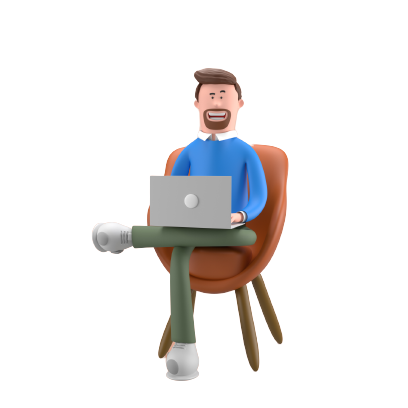
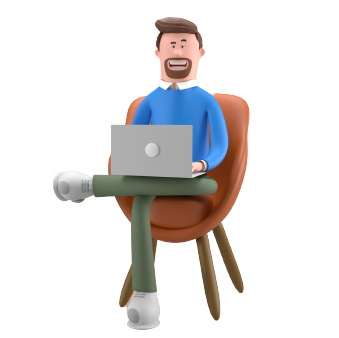
Changes told by Sagar Amg

Changed region(s): [[0.1475, 0.0296, 0.7375, 0.9763]]

diff --git a/client/src/components/skills.jsx b/client/src/components/skills.jsx
@@ -11,29 +11,47 @@ const skills = () => {
 
     <div className='flex flex-col pt-20 bg-slate-800' >
           <div className='flex text-4xl text-slate-100 justify-center font-Outfit'>
-              <h1>My Skills</h1>
+              <h1>Skills</h1>
           </div>
-        <div className='flex flex-1 justify-around px-6'>
-            <div className='flex h-40 items-center'><span className=' fill-slate-100'>
-            <svg xmlns="http://www.w3.org/2000/svg" height="40px" color='black' viewBox="0 0 384 512"><path d="M0 32l34.9 395.8L191.5 480l157.6-52.2L384 32H0zm308.2 127.9H124.4l4.1 49.4h175.6l-13.6 148.4-97.9 27v.3h-1.1l-98.7-27.3-6-75.8h47.7L138 320l53.5 14.5 53.7-14.5 6-62.2H84.3L71.5 112.2h241.1l-4.4 47.7z"/></svg>
-              </span></div>
-            <div className='flex h-40 items-center'><span className=' fill-slate-100'>
-            <svg xmlns="http://www.w3.org/2000/svg" height="40px" viewBox="0 0 384 512"><path d="M0 32l34.9 395.8L192 480l157.1-52.2L384 32H0zm313.1 80l-4.8 47.3L193 208.6l-.3.1h111.5l-12.8 146.6-98.2 28.7-98.8-29.2-6.4-73.9h48.9l3.2 38.3 52.6 13.3 54.7-15.4 3.7-61.6-166.3-.5v-.1l-.2.1-3.6-46.3L193.1 162l6.5-2.7H76.7L70.9 112h242.2z"/></svg>
-              </span></div>
-            <div className='flex h-40 items-center'><span className=' fill-slate-100'>
-            <svg xmlns="http://www.w3.org/2000/svg" height="40px" viewBox="0 0 448 512"><path d="M400 32H48C21.5 32 0 53.5 0 80v352c0 26.5 21.5 48 48 48h352c26.5 0 48-21.5 48-48V80c0-26.5-21.5-48-48-48zM243.8 381.4c0 43.6-25.6 63.5-62.9 63.5-33.7 0-53.2-17.4-63.2-38.5l34.3-20.7c6.6 11.7 12.6 21.6 27.1 21.6 13.8 0 22.6-5.4 22.6-26.5V237.7h42.1v143.7zm99.6 63.5c-39.1 0-64.4-18.6-76.7-43l34.3-19.8c9 14.7 20.8 25.6 41.5 25.6 17.4 0 28.6-8.7 28.6-20.8 0-14.4-11.4-19.5-30.7-28l-10.5-4.5c-30.4-12.9-50.5-29.2-50.5-63.5 0-31.6 24.1-55.6 61.6-55.6 26.8 0 46 9.3 59.8 33.7L368 290c-7.2-12.9-15-18-27.1-18-12.3 0-20.1 7.8-20.1 18 0 12.6 7.8 17.7 25.9 25.6l10.5 4.5c35.8 15.3 55.9 31 55.9 66.2 0 37.8-29.8 58.6-69.7 58.6z"/></svg>
-              </span></div>
+        <div className='flex flex-1 justify-center px-12'>
+            <div className='flex flex-1 flex-col h-40 justify-center items-center '>
+              <span className=' fill-slate-100'>
+                <svg xmlns="http://www.w3.org/2000/svg" height="40px" color='black' viewBox="0 0 384 512"><path d="M0 32l34.9 395.8L191.5 480l157.6-52.2L384 32H0zm308.2 127.9H124.4l4.1 49.4h175.6l-13.6 148.4-97.9 27v.3h-1.1l-98.7-27.3-6-75.8h47.7L138 320l53.5 14.5 53.7-14.5 6-62.2H84.3L71.5 112.2h241.1l-4.4 47.7z"/></svg>
+              </span> 
+              <h2 className='text-slate-100 font-Outfit'>HTML</h2>
+            </div>
+            <div className='flex flex-1 flex-col h-40 justify-center items-center sm:mx-32 '>
+              <span className=' fill-slate-100'>
+                <svg xmlns="http://www.w3.org/2000/svg" height="40px" viewBox="0 0 384 512"><path d="M0 32l34.9 395.8L192 480l157.1-52.2L384 32H0zm313.1 80l-4.8 47.3L193 208.6l-.3.1h111.5l-12.8 146.6-98.2 28.7-98.8-29.2-6.4-73.9h48.9l3.2 38.3 52.6 13.3 54.7-15.4 3.7-61.6-166.3-.5v-.1l-.2.1-3.6-46.3L193.1 162l6.5-2.7H76.7L70.9 112h242.2z"/></svg>
+              </span>
+              <h2 className='text-slate-100 font-Outfit'>CSS</h2>
+            </div>
+            <div className='flex flex-1 flex-col h-40 justify-center items-center '>
+              <span className=' fill-slate-100'>
+                <svg xmlns="http://www.w3.org/2000/svg" height="40px" viewBox="0 0 448 512"><path d="M400 32H48C21.5 32 0 53.5 0 80v352c0 26.5 21.5 48 48 48h352c26.5 0 48-21.5 48-48V80c0-26.5-21.5-48-48-48zM243.8 381.4c0 43.6-25.6 63.5-62.9 63.5-33.7 0-53.2-17.4-63.2-38.5l34.3-20.7c6.6 11.7 12.6 21.6 27.1 21.6 13.8 0 22.6-5.4 22.6-26.5V237.7h42.1v143.7zm99.6 63.5c-39.1 0-64.4-18.6-76.7-43l34.3-19.8c9 14.7 20.8 25.6 41.5 25.6 17.4 0 28.6-8.7 28.6-20.8 0-14.4-11.4-19.5-30.7-28l-10.5-4.5c-30.4-12.9-50.5-29.2-50.5-63.5 0-31.6 24.1-55.6 61.6-55.6 26.8 0 46 9.3 59.8 33.7L368 290c-7.2-12.9-15-18-27.1-18-12.3 0-20.1 7.8-20.1 18 0 12.6 7.8 17.7 25.9 25.6l10.5 4.5c35.8 15.3 55.9 31 55.9 66.2 0 37.8-29.8 58.6-69.7 58.6z"/></svg>
+              </span>
+              <h2 className='text-slate-100 font-Outfit'>JavaScript</h2>
+            </div>
         </div>
-        <div  className='flex flex-1 justify-around px-6'>
-            <div className='flex h-40 items-center'><span className=' fill-slate-100'>
+        <div  className='flex flex-1 justify-center px-12'>
+            <div className='flex flex-1 flex-col h-40 justify-center items-center '>
+              <span className=' fill-slate-100'>
                 <svg xmlns="http://www.w3.org/2000/svg" height="40px" viewBox="0 0 512 512"><path d="M418.2 177.2c-5.4-1.8-10.8-3.5-16.2-5.1.9-3.7 1.7-7.4 2.5-11.1 12.3-59.6 4.2-107.5-23.1-123.3-26.3-15.1-69.2.6-112.6 38.4-4.3 3.7-8.5 7.6-12.5 11.5-2.7-2.6-5.5-5.2-8.3-7.7-45.5-40.4-91.1-57.4-118.4-41.5-26.2 15.2-34 60.3-23 116.7 1.1 5.6 2.3 11.1 3.7 16.7-6.4 1.8-12.7 3.8-18.6 5.9C38.3 196.2 0 225.4 0 255.6c0 31.2 40.8 62.5 96.3 81.5 4.5 1.5 9 3 13.6 4.3-1.5 6-2.8 11.9-4 18-10.5 55.5-2.3 99.5 23.9 114.6 27 15.6 72.4-.4 116.6-39.1 3.5-3.1 7-6.3 10.5-9.7 4.4 4.3 9 8.4 13.6 12.4 42.8 36.8 85.1 51.7 111.2 36.6 27-15.6 35.8-62.9 24.4-120.5-.9-4.4-1.9-8.9-3-13.5 3.2-.9 6.3-1.9 9.4-2.9 57.7-19.1 99.5-50 99.5-81.7 0-30.3-39.4-59.7-93.8-78.4zM282.9 92.3c37.2-32.4 71.9-45.1 87.7-36 16.9 9.7 23.4 48.9 12.8 100.4-.7 3.4-1.4 6.7-2.3 10-22.2-5-44.7-8.6-67.3-10.6-13-18.6-27.2-36.4-42.6-53.1 3.9-3.7 7.7-7.2 11.7-10.7zM167.2 307.5c5.1 8.7 10.3 17.4 15.8 25.9-15.6-1.7-31.1-4.2-46.4-7.5 4.4-14.4 9.9-29.3 16.3-44.5 4.6 8.8 9.3 17.5 14.3 26.1zm-30.3-120.3c14.4-3.2 29.7-5.8 45.6-7.8-5.3 8.3-10.5 16.8-15.4 25.4-4.9 8.5-9.7 17.2-14.2 26-6.3-14.9-11.6-29.5-16-43.6zm27.4 68.9c6.6-13.8 13.8-27.3 21.4-40.6s15.8-26.2 24.4-38.9c15-1.1 30.3-1.7 45.9-1.7s31 .6 45.9 1.7c8.5 12.6 16.6 25.5 24.3 38.7s14.9 26.7 21.7 40.4c-6.7 13.8-13.9 27.4-21.6 40.8-7.6 13.3-15.7 26.2-24.2 39-14.9 1.1-30.4 1.6-46.1 1.6s-30.9-.5-45.6-1.4c-8.7-12.7-16.9-25.7-24.6-39s-14.8-26.8-21.5-40.6zm180.6 51.2c5.1-8.8 9.9-17.7 14.6-26.7 6.4 14.5 12 29.2 16.9 44.3-15.5 3.5-31.2 6.2-47 8 5.4-8.4 10.5-17 15.5-25.6zm14.4-76.5c-4.7-8.8-9.5-17.6-14.5-26.2-4.9-8.5-10-16.9-15.3-25.2 16.1 2 31.5 4.7 45.9 8-4.6 14.8-10 29.2-16.1 43.4zM256.2 118.3c10.5 11.4 20.4 23.4 29.6 35.8-19.8-.9-39.7-.9-59.5 0 9.8-12.9 19.9-24.9 29.9-35.8zM140.2 57c16.8-9.8 54.1 4.2 93.4 39 2.5 2.2 5 4.6 7.6 7-15.5 16.7-29.8 34.5-42.9 53.1-22.6 2-45 5.5-67.2 10.4-1.3-5.1-2.4-10.3-3.5-15.5-9.4-48.4-3.2-84.9 12.6-94zm-24.5 263.6c-4.2-1.2-8.3-2.5-12.4-3.9-21.3-6.7-45.5-17.3-63-31.2-10.1-7-16.9-17.8-18.8-29.9 0-18.3 31.6-41.7 77.2-57.6 5.7-2 11.5-3.8 17.3-5.5 6.8 21.7 15 43 24.5 63.6-9.6 20.9-17.9 42.5-24.8 64.5zm116.6 98c-16.5 15.1-35.6 27.1-56.4 35.3-11.1 5.3-23.9 5.8-35.3 1.3-15.9-9.2-22.5-44.5-13.5-92 1.1-5.6 2.3-11.2 3.7-16.7 22.4 4.8 45 8.1 67.9 9.8 13.2 18.7 27.7 36.6 43.2 53.4-3.2 3.1-6.4 6.1-9.6 8.9zm24.5-24.3c-10.2-11-20.4-23.2-30.3-36.3 9.6.4 19.5.6 29.5.6 10.3 0 20.4-.2 30.4-.7-9.2 12.7-19.1 24.8-29.6 36.4zm130.7 30c-.9 12.2-6.9 23.6-16.5 31.3-15.9 9.2-49.8-2.8-86.4-34.2-4.2-3.6-8.4-7.5-12.7-11.5 15.3-16.9 29.4-34.8 42.2-53.6 22.9-1.9 45.7-5.4 68.2-10.5 1 4.1 1.9 8.2 2.7 12.2 4.9 21.6 5.7 44.1 2.5 66.3zm18.2-107.5c-2.8.9-5.6 1.8-8.5 2.6-7-21.8-15.6-43.1-25.5-63.8 9.6-20.4 17.7-41.4 24.5-62.9 5.2 1.5 10.2 3.1 15 4.7 46.6 16 79.3 39.8 79.3 58 0 19.6-34.9 44.9-84.8 61.4zm-149.7-15c25.3 0 45.8-20.5 45.8-45.8s-20.5-45.8-45.8-45.8c-25.3 0-45.8 20.5-45.8 45.8s20.5 45.8 45.8 45.8z"/></svg>
-              </span></div>
-            <div className='flex h-40 items-center'><span className=' fill-slate-100'>
+              </span>
+              <h2 className='text-slate-100 font-Outfit'>React</h2>
+            </div>
+            <div className='flex flex-1 flex-col h-40 justify-center items-center  sm:mx-32 '>
+              <span className=' fill-slate-100'>
                 <svg xmlns="http://www.w3.org/2000/svg" height="40px" viewBox="0 0 640 512"><path d="M316.3 452c-2.1 0-4.2-.6-6.1-1.6L291 439c-2.9-1.6-1.5-2.2-.5-2.5 3.8-1.3 4.6-1.6 8.7-4 .4-.2 1-.1 1.4.1l14.8 8.8c.5.3 1.3.3 1.8 0L375 408c.5-.3.9-.9.9-1.6v-66.7c0-.7-.3-1.3-.9-1.6l-57.8-33.3c-.5-.3-1.2-.3-1.8 0l-57.8 33.3c-.6.3-.9 1-.9 1.6v66.7c0 .6.4 1.2.9 1.5l15.8 9.1c8.6 4.3 13.9-.8 13.9-5.8v-65.9c0-.9.7-1.7 1.7-1.7h7.3c.9 0 1.7.7 1.7 1.7v65.9c0 11.5-6.2 18-17.1 18-3.3 0-6 0-13.3-3.6l-15.2-8.7c-3.7-2.2-6.1-6.2-6.1-10.5v-66.7c0-4.3 2.3-8.4 6.1-10.5l57.8-33.4c3.7-2.1 8.5-2.1 12.1 0l57.8 33.4c3.7 2.2 6.1 6.2 6.1 10.5v66.7c0 4.3-2.3 8.4-6.1 10.5l-57.8 33.4c-1.7 1.1-3.8 1.7-6 1.7zm46.7-65.8c0-12.5-8.4-15.8-26.2-18.2-18-2.4-19.8-3.6-19.8-7.8 0-3.5 1.5-8.1 14.8-8.1 11.9 0 16.3 2.6 18.1 10.6.2.8.8 1.3 1.6 1.3h7.5c.5 0 .9-.2 1.2-.5.3-.4.5-.8.4-1.3-1.2-13.8-10.3-20.2-28.8-20.2-16.5 0-26.3 7-26.3 18.6 0 12.7 9.8 16.1 25.6 17.7 18.9 1.9 20.4 4.6 20.4 8.3 0 6.5-5.2 9.2-17.4 9.2-15.3 0-18.7-3.8-19.8-11.4-.1-.8-.8-1.4-1.7-1.4h-7.5c-.9 0-1.7.7-1.7 1.7 0 9.7 5.3 21.3 30.6 21.3 18.5 0 29-7.2 29-19.8zm54.5-50.1c0 6.1-5 11.1-11.1 11.1s-11.1-5-11.1-11.1c0-6.3 5.2-11.1 11.1-11.1 6-.1 11.1 4.8 11.1 11.1zm-1.8 0c0-5.2-4.2-9.3-9.4-9.3-5.1 0-9.3 4.1-9.3 9.3 0 5.2 4.2 9.4 9.3 9.4 5.2-.1 9.4-4.3 9.4-9.4zm-4.5 6.2h-2.6c-.1-.6-.5-3.8-.5-3.9-.2-.7-.4-1.1-1.3-1.1h-2.2v5h-2.4v-12.5h4.3c1.5 0 4.4 0 4.4 3.3 0 2.3-1.5 2.8-2.4 3.1 1.7.1 1.8 1.2 2.1 2.8.1 1 .3 2.7.6 3.3zm-2.8-8.8c0-1.7-1.2-1.7-1.8-1.7h-2v3.5h1.9c1.6 0 1.9-1.1 1.9-1.8zM137.3 191c0-2.7-1.4-5.1-3.7-6.4l-61.3-35.3c-1-.6-2.2-.9-3.4-1h-.6c-1.2 0-2.3.4-3.4 1L3.7 184.6C1.4 185.9 0 188.4 0 191l.1 95c0 1.3.7 2.5 1.8 3.2 1.1.7 2.5.7 3.7 0L42 268.3c2.3-1.4 3.7-3.8 3.7-6.4v-44.4c0-2.6 1.4-5.1 3.7-6.4l15.5-8.9c1.2-.7 2.4-1 3.7-1 1.3 0 2.6.3 3.7 1l15.5 8.9c2.3 1.3 3.7 3.8 3.7 6.4v44.4c0 2.6 1.4 5.1 3.7 6.4l36.4 20.9c1.1.7 2.6.7 3.7 0 1.1-.6 1.8-1.9 1.8-3.2l.2-95zM472.5 87.3v176.4c0 2.6-1.4 5.1-3.7 6.4l-61.3 35.4c-2.3 1.3-5.1 1.3-7.4 0l-61.3-35.4c-2.3-1.3-3.7-3.8-3.7-6.4v-70.8c0-2.6 1.4-5.1 3.7-6.4l61.3-35.4c2.3-1.3 5.1-1.3 7.4 0l15.3 8.8c1.7 1 3.9-.3 3.9-2.2v-94c0-2.8 3-4.6 5.5-3.2l36.5 20.4c2.3 1.2 3.8 3.7 3.8 6.4zm-46 128.9c0-.7-.4-1.3-.9-1.6l-21-12.2c-.6-.3-1.3-.3-1.9 0l-21 12.2c-.6.3-.9.9-.9 1.6v24.3c0 .7.4 1.3.9 1.6l21 12.1c.6.3 1.3.3 1.8 0l21-12.1c.6-.3.9-.9.9-1.6v-24.3zm209.8-.7c2.3-1.3 3.7-3.8 3.7-6.4V192c0-2.6-1.4-5.1-3.7-6.4l-60.9-35.4c-2.3-1.3-5.1-1.3-7.4 0l-61.3 35.4c-2.3 1.3-3.7 3.8-3.7 6.4v70.8c0 2.7 1.4 5.1 3.7 6.4l60.9 34.7c2.2 1.3 5 1.3 7.3 0l36.8-20.5c2.5-1.4 2.5-5 0-6.4L550 241.6c-1.2-.7-1.9-1.9-1.9-3.2v-22.2c0-1.3.7-2.5 1.9-3.2l19.2-11.1c1.1-.7 2.6-.7 3.7 0l19.2 11.1c1.1.7 1.9 1.9 1.9 3.2v17.4c0 2.8 3.1 4.6 5.6 3.2l36.7-21.3zM559 219c-.4.3-.7.7-.7 1.2v13.6c0 .5.3 1 .7 1.2l11.8 6.8c.4.3 1 .3 1.4 0L584 235c.4-.3.7-.7.7-1.2v-13.6c0-.5-.3-1-.7-1.2l-11.8-6.8c-.4-.3-1-.3-1.4 0L559 219zm-254.2 43.5v-70.4c0-2.6-1.6-5.1-3.9-6.4l-61.1-35.2c-2.1-1.2-5-1.4-7.4 0l-61.1 35.2c-2.3 1.3-3.9 3.7-3.9 6.4v70.4c0 2.8 1.9 5.2 4 6.4l61.2 35.2c2.4 1.4 5.2 1.3 7.4 0l61-35.2c1.8-1 3.1-2.7 3.6-4.7.1-.5.2-1.1.2-1.7zm-74.3-124.9l-.8.5h1.1l-.3-.5zm76.2 130.2l-.4-.7v.9l.4-.2z"/></svg>
-              </span></div>
-            <div className='flex h-40 items-center'><span className=' fill-slate-100'>
-            <svg xmlns="http://www.w3.org/2000/svg" height="40px" viewBox="0 0 448 512"><path d="M439.55 236.05L244 40.45a28.87 28.87 0 0 0-40.81 0l-40.66 40.63 51.52 51.52c27.06-9.14 52.68 16.77 43.39 43.68l49.66 49.66c34.23-11.8 61.18 31 35.47 56.69-26.49 26.49-70.21-2.87-56-37.34L240.22 199v121.85c25.3 12.54 22.26 41.85 9.08 55a34.34 34.34 0 0 1-48.55 0c-17.57-17.6-11.07-46.91 11.25-56v-123c-20.8-8.51-24.6-30.74-18.64-45L142.57 101 8.45 235.14a28.86 28.86 0 0 0 0 40.81l195.61 195.6a28.86 28.86 0 0 0 40.8 0l194.69-194.69a28.86 28.86 0 0 0 0-40.81z"/></svg>
-                </span></div>
+              </span>
+              <h2 className='text-slate-100 font-Outfit'>Node</h2>
+            </div>
+            <div className='flex flex-1 flex-col h-40 justify-center items-center '>
+              <span className=' fill-slate-100'>
+                <svg xmlns="http://www.w3.org/2000/svg" height="40px" viewBox="0 0 448 512"><path d="M439.55 236.05L244 40.45a28.87 28.87 0 0 0-40.81 0l-40.66 40.63 51.52 51.52c27.06-9.14 52.68 16.77 43.39 43.68l49.66 49.66c34.23-11.8 61.18 31 35.47 56.69-26.49 26.49-70.21-2.87-56-37.34L240.22 199v121.85c25.3 12.54 22.26 41.85 9.08 55a34.34 34.34 0 0 1-48.55 0c-17.57-17.6-11.07-46.91 11.25-56v-123c-20.8-8.51-24.6-30.74-18.64-45L142.57 101 8.45 235.14a28.86 28.86 0 0 0 0 40.81l195.61 195.6a28.86 28.86 0 0 0 40.8 0l194.69-194.69a28.86 28.86 0 0 0 0-40.81z"/></svg>
+              </span>
+              <h2 className='text-slate-100 font-Outfit'>Git</h2>
+            </div>
         </div>
     </div>
 

diff --git a/client/src/components/hero.jsx b/client/src/components/hero.jsx
@@ -13,35 +13,36 @@ const hero = () => {
   return (
     <div id='home'>
        <div className=" flex flex-col sm:flex-row-reverse pt-20 w-fill h-screen sm:h-screen text-white bg-[url('https://images.pexels.com/photos/6956433/pexels-photo-6956433.jpeg?auto=compress&cs=tinysrgb&w=1260&h=750&dpr=1')] bg-cover bg-no-repeat" >
-            <div className='flex-6 sm:flex-1'>
-                    <div className='flex h-full justify-center items-center'>
-                            <div><img className='w-auto h-40 sm:h-auto duration-700 hover:-translate-x-4 relative z-1 animate__animated animate__slideInDown sm:animate__slideInLeft' src={Avatar} alt="Avata" /></div>
+            <div className='flex-6 sm:flex sm:flex-row sm:justify-start sm:flex-1 '>
+                    <div className='flex h-full justify-center items-center '>
+                            <img className='w-auto h-40 sm:h-[500px] sm:w-[500px]   duration-700 hover:-translate-x-4 relative z-1 animate__animated animate__slideInDown sm:animate__slideInLeft' src={Avatar} alt="Avata" />
                     </div>
             </div>
-            <div  className='flex flex-col py-10 sm:py-20 sm:pt-25 px-4  flex-1 justify-center sm:justify-start items-center'>
+            < div  className='flex flex-col sm:pl-18 py-10 sm:pl-[10%] sm:pt-25 px-4  flex-1 justify-center sm:justify-center items-end '>
                     {/* <div className='flex-1 text-white flex justify-center items-center px-10 sm:px-0'>
                         <div className='text-left sm:pl-10'>
                           <h1 className='font-bold font-Outfit text-4xl text-center  uppercase'>Hi!  i am Sagar</h1>   
                         </div>                  
                     </div> */}
-                    <div className='flex-1 text-white flex justify-center items-center sm:items-end px-10 sm:pb-0 animate__animated animate__zoomInUp'>
-                        <div className='text-left sm:pl-10'>
-                            <p  className='font-bold font-Outfit sm:text-6xl text-3xl text-center sm:text-center'><span className='text-2xl '>Hi there </span>I'm Sagar <span className='text-2xl duration-700 hover:-translate-x-4'>Creative Web </span> Developer <span className='text-2xl'>I believe in the power</span>  <span className='text-2xl'> of continuous</span> learning</p>
-                        </div>
-                    </div>
-                    <div className='flex-1 text-white flex justify-center items-center px-10 animate__animated animate__zoomInDown'>
-                        <div className='text-left sm:pl-10'>
-                            <p id="herotext" className='text-center font-Outfit'> Embarking on a journey to master full-stack web development through hands-on projects, fueled by a relentless desire to explore and innovate</p>
-                        </div>
-                    </div>
-                    <div className='flex-1 text-black flex justify-center items-center'>
-                      <button className= 'square flex bg-blue-400 hover:bg-blue-600  rounded-md p-2 mt-2 font-bold font-Montser text-white animate__animated animate__slideInUp ' type="button">
-                        Get CV <span className='animate-bounce px-2'><svg xmlns="http://www.w3.org/2000/svg" fill="none" viewBox="0 0 24 24" strokeWidth="1.5" stroke="currentColor" className="w-5 h-5">
-                                        < path strokeLinecap="round" strokeLinejoin="round" d="M3 16.5v2.25A2.25 2.25 0 005.25 21h13.5A2.25 2.25 0 0021 18.75V16.5M16.5 12L12 16.5m0 0L7.5 12m4.5 4.5V3" />
-                                    </svg>
-                                </span>
-                        </button>
-                      
+                    <div className='flex flex-col'>
+                      <div className='flex-1 text-white flex justify-center items-center sm:items-end px-10 sm:pb-0 animate__animated animate__zoomInUp '>
+                          <div className='text-left sm:pl-10'>
+                              <p  className='font-bold font-Outfit sm:text-6xl text-3xl text-center sm:text-center'><span className='text-2xl '>Hi there </span>I'm Sagar <span className='text-2xl duration-700 hover:-translate-x-4'>Creative Web </span> Developer <span className='text-2xl'>I believe in the power</span>  <span className='text-2xl'> of continuous</span> learning</p>
+                          </div>
+                      </div>
+                      <div className='flex-1 text-white flex justify-center items-center px-10 animate__animated animate__zoomInDown '>
+                          <div className='text-left sm:pl-10'>
+                              <p id="herotext" className='text-center font-Outfit'> Embarking on a journey to master full-stack web development through hands-on projects, fueled by a relentless desire to explore and innovate</p>
+                          </div>
+                      </div>
+                      <div className='flex-1 text-black flex justify-center items-center '>
+                        <button className= 'flex border-2 border-blue-400 hover:bg-blue-600  rounded-lg p-2 mt-2 font-bold font-Montser text-white animate__animated animate__slideInUp ' type="button">
+                          Get CV <span className='animate-bounce pl-2 fill-white'><svg xmlns="http://www.w3.org/2000/svg" fill="none" viewBox="0 0 24 24" strokeWidth="1.5" stroke="currentColor" className="w-5 h-5">
+                                          < path strokeLinecap="round" strokeLinejoin="round" d="M3 16.5v2.25A2.25 2.25 0 005.25 21h13.5A2.25 2.25 0 0021 18.75V16.5M16.5 12L12 16.5m0 0L7.5 12m4.5 4.5V3" />
+                                      </svg>
+                                  </span>
+                        </button>             
+                      </div>
                     </div>
                     
             </div>

diff --git a/client/src/components/footer.jsx b/client/src/components/footer.jsx
@@ -8,26 +8,31 @@ const footer = () => {
     <div>
 
       <div className='flex flex-col h-full bg-[#00cdda] pb-4'>
-        <div className='flex flex-1 p-6 justify-around'>
-            <div>
+        <div className='flex flex-1 p-6 justify-start'>
+            <div className='pr-6  flex-7'>
               <span className='text-white hover:h-8'>
-              <svg xmlns="http://www.w3.org/2000/svg" height="30px" viewBox="0 0 512 512"><path d="M504 256C504 119 393 8 256 8S8 119 8 256c0 123.78 90.69 226.38 209.25 245V327.69h-63V256h63v-54.64c0-62.15 37-96.48 93.67-96.48 27.14 0 55.52 4.84 55.52 4.84v61h-31.28c-30.8 0-40.41 19.12-40.41 38.73V256h68.78l-11 71.69h-57.78V501C413.31 482.38 504 379.78 504 256z"/></svg>
+              <svg xmlns="http://www.w3.org/2000/svg" height="30px" viewBox="0 0 448 512"><path d="M400 32H48A48 48 0 0 0 0 80v352a48 48 0 0 0 48 48h137.25V327.69h-63V256h63v-54.64c0-62.15 37-96.48 93.67-96.48 27.14 0 55.52 4.84 55.52 4.84v61h-31.27c-30.81 0-40.42 19.12-40.42 38.73V256h68.78l-11 71.69h-57.78V480H400a48 48 0 0 0 48-48V80a48 48 0 0 0-48-48z"/></svg>
               </span>
             </div>
-            <div>      
+            <div className='pr-6 flex-7'>      
                 <span>
                 <svg xmlns="http://www.w3.org/2000/svg" height="30px" viewBox="0 0 448 512"><path d="M416 32H31.9C14.3 32 0 46.5 0 64.3v383.4C0 465.5 14.3 480 31.9 480H416c17.6 0 32-14.5 32-32.3V64.3c0-17.8-14.4-32.3-32-32.3zM135.4 416H69V202.2h66.5V416zm-33.2-243c-21.3 0-38.5-17.3-38.5-38.5S80.9 96 102.2 96c21.2 0 38.5 17.3 38.5 38.5 0 21.3-17.2 38.5-38.5 38.5zm282.1 243h-66.4V312c0-24.8-.5-56.7-34.5-56.7-34.6 0-39.9 27-39.9 54.9V416h-66.4V202.2h63.7v29.2h.9c8.9-16.8 30.6-34.5 62.9-34.5 67.2 0 79.7 44.3 79.7 101.9V416z"/></svg>
                 </span>
             </div>
             {/* <FontAwesomeIcon icon={faInstagram} /> */}
-            <div>
+            <div className='pr-6 flex-7'>
               <span>
-              <svg xmlns="http://www.w3.org/2000/svg" height="30px" viewBox="0 0 448 512"><path d="M224.1 141c-63.6 0-114.9 51.3-114.9 114.9s51.3 114.9 114.9 114.9S339 319.5 339 255.9 287.7 141 224.1 141zm0 189.6c-41.1 0-74.7-33.5-74.7-74.7s33.5-74.7 74.7-74.7 74.7 33.5 74.7 74.7-33.6 74.7-74.7 74.7zm146.4-194.3c0 14.9-12 26.8-26.8 26.8-14.9 0-26.8-12-26.8-26.8s12-26.8 26.8-26.8 26.8 12 26.8 26.8zm76.1 27.2c-1.7-35.9-9.9-67.7-36.2-93.9-26.2-26.2-58-34.4-93.9-36.2-37-2.1-147.9-2.1-184.9 0-35.8 1.7-67.6 9.9-93.9 36.1s-34.4 58-36.2 93.9c-2.1 37-2.1 147.9 0 184.9 1.7 35.9 9.9 67.7 36.2 93.9s58 34.4 93.9 36.2c37 2.1 147.9 2.1 184.9 0 35.9-1.7 67.7-9.9 93.9-36.2 26.2-26.2 34.4-58 36.2-93.9 2.1-37 2.1-147.8 0-184.8zM398.8 388c-7.8 19.6-22.9 34.7-42.6 42.6-29.5 11.7-99.5 9-132.1 9s-102.7 2.6-132.1-9c-19.6-7.8-34.7-22.9-42.6-42.6-11.7-29.5-9-99.5-9-132.1s-2.6-102.7 9-132.1c7.8-19.6 22.9-34.7 42.6-42.6 29.5-11.7 99.5-9 132.1-9s102.7-2.6 132.1 9c19.6 7.8 34.7 22.9 42.6 42.6 11.7 29.5 9 99.5 9 132.1s2.7 102.7-9 132.1z"/></svg>
+              <svg xmlns="http://www.w3.org/2000/svg" height="30px" viewBox="0 0 448 512"><path d="M224,202.66A53.34,53.34,0,1,0,277.36,256,53.38,53.38,0,0,0,224,202.66Zm124.71-41a54,54,0,0,0-30.41-30.41c-21-8.29-71-6.43-94.3-6.43s-73.25-1.93-94.31,6.43a54,54,0,0,0-30.41,30.41c-8.28,21-6.43,71.05-6.43,94.33S91,329.26,99.32,350.33a54,54,0,0,0,30.41,30.41c21,8.29,71,6.43,94.31,6.43s73.24,1.93,94.3-6.43a54,54,0,0,0,30.41-30.41c8.35-21,6.43-71.05,6.43-94.33S357.1,182.74,348.75,161.67ZM224,338a82,82,0,1,1,82-82A81.9,81.9,0,0,1,224,338Zm85.38-148.3a19.14,19.14,0,1,1,19.13-19.14A19.1,19.1,0,0,1,309.42,189.74ZM400,32H48A48,48,0,0,0,0,80V432a48,48,0,0,0,48,48H400a48,48,0,0,0,48-48V80A48,48,0,0,0,400,32ZM382.88,322c-1.29,25.63-7.14,48.34-25.85,67s-41.4,24.63-67,25.85c-26.41,1.49-105.59,1.49-132,0-25.63-1.29-48.26-7.15-67-25.85s-24.63-41.42-25.85-67c-1.49-26.42-1.49-105.61,0-132,1.29-25.63,7.07-48.34,25.85-67s41.47-24.56,67-25.78c26.41-1.49,105.59-1.49,132,0,25.63,1.29,48.33,7.15,67,25.85s24.63,41.42,25.85,67.05C384.37,216.44,384.37,295.56,382.88,322Z"/></svg>
               </span>
             </div>
-            <div>
-              <a href="#">
+            <div className='pr-6 flex-1'>
+              <a>
               <svg xmlns="http://www.w3.org/2000/svg" height="30px" viewBox="0 0 576 512"><path d="M549.655 124.083c-6.281-23.65-24.787-42.276-48.284-48.597C458.781 64 288 64 288 64S117.22 64 74.629 75.486c-23.497 6.322-42.003 24.947-48.284 48.597-11.412 42.867-11.412 132.305-11.412 132.305s0 89.438 11.412 132.305c6.281 23.65 24.787 41.5 48.284 47.821C117.22 448 288 448 288 448s170.78 0 213.371-11.486c23.497-6.321 42.003-24.171 48.284-47.821 11.412-42.867 11.412-132.305 11.412-132.305s0-89.438-11.412-132.305zm-317.51 213.508V175.185l142.739 81.205-142.739 81.201z"/></svg>
+              </a>
+            </div>
+            <div className=' flex justify-end flex-1'>
+              <a onClick={()=>ScrollTo('#home')}>
+              <svg xmlns="http://www.w3.org/2000/svg" height="30px" viewBox="0 0 384 512"><path d="M214.6 41.4c-12.5-12.5-32.8-12.5-45.3 0l-160 160c-12.5 12.5-12.5 32.8 0 45.3s32.8 12.5 45.3 0L160 141.2V448c0 17.7 14.3 32 32 32s32-14.3 32-32V141.2L329.4 246.6c12.5 12.5 32.8 12.5 45.3 0s12.5-32.8 0-45.3l-160-160z"/></svg>
               </a>
             </div>
         </div>

diff --git a/client/src/components/contact.jsx b/client/src/components/contact.jsx
@@ -8,6 +8,22 @@ const contact = () => {
     const [email, setEmail] = useState('')
 
     const[alertContent, setAlertContent] = useState('')
+
+    // let messageArray = []
+
+    // const Submit = ((e)=>{
+    //   e.preventDefault()
+    //   const inputObject = {
+    //     name : name,
+    //     email : email,
+    //     message : bodym
+    //   }
+    //   const arr = [];
+      
+ 
+    //   console.log(inputObject);
+    // })
+    //  _______________________________________________________Api call__________________________________________________________________
     const alert = (arg)=>{
       setAlertContent(arg)
       setAlertmes(true);
@@ -26,8 +42,6 @@ const contact = () => {
           setEmail('')
           setName(' ')
           alert('Message Recieved')
-
-
         })
         .catch(err => {
           console.log(err)
@@ -35,13 +49,15 @@ const contact = () => {
         }); 
         
       }
+
+    //  _______________________________________________________Api call__________________________________________________________________
   return (
-    <div className='bg-green-300 py-20 sm:px-11' id='contact'>
-    <div className='flex text-4xl justify-center font-Outfit'>
-      <h1>Contact Me</h1>
-    </div>
+    <div className='bg-green-200 py-20 sm:px-11' id='contact'>
+      <div className='flex text-4xl justify-center font-Outfit'>
+        <h1>Contact</h1>
+      </div>
          
-        <form className='flex flex-col h-full rounded overflow-hidden shadow-xl bg-black shadow-black m-4 p-6 sm:p-16' onSubmit={Submit} >
+        <form className='flex flex-col h-full rounded overflow-hidden shadow-xl bg-black shadow-black m-4 mt-12 p-6 sm:p-16' onSubmit={Submit} >
             <div class={ alertmes ? 'bg-blue-100 border-blue-600 border-2 text-blue-700 px-4  sm:mx-24 py-3 rounded relative ':'hidden' } role="alert">
                 <strong class="font-bold">{alertContent}</strong>
                 {/* <span class="block sm:inline">Will get back to you in no time.</span> */}
@@ -49,12 +65,12 @@ const contact = () => {
             <div className='flex flex-col sm:flex-row sm:px-20'>
                 <div className='flex flex-1 justify-center flex-col p-2'>
                     
-                    <input className='border-2 border-slate-700 sm:h-16 h-10 rounded-lg p-2 my-2 text-grey-darkest' value={name} type="text" name="userName" placeholder='Name' id="" onChange={(e)=>{setName(e.target.value)}}/>
-                    <input className='border-2 border-slate-700 sm:h-16 h-10 rounded-lg p-2 my-2' value={email} type="text" name="userEmail" placeholder='Email' id="" onChange={(e)=>{setEmail(e.target.value)}} />
+                    <input className='border-2 border-slate-700 sm:h-16 h-10 rounded-lg p-2 my-2 text-grey-darkest' value={name} type="text" name="userName" placeholder='Enter Name' id="" onChange={(e)=>{setName(e.target.value)}}/>
+                    <input className='border-2 border-slate-700 sm:h-16 h-10 rounded-lg p-2 my-2' value={email} type="text" name="userEmail" placeholder='Enter Email' id="" onChange={(e)=>{setEmail(e.target.value)}} />
                 </div>
                 <div className='flex flex-1 justify-center p-2'>
                     
-                    <textarea className='border-2 border-blue-400 w-full p-2 rounded-lg h-24 sm:h-36 my-2' value={bodym}  name="userMessage" placeholder='Message' id="" cols="" rows="" onChange={(e)=>{setBodym(e.target.value)}}></textarea>
+                    <textarea className='border-2 border-blue-400 w-full p-2 rounded-lg h-24 sm:h-36 my-2' value={bodym}  name="userMessage" placeholder='Write your Message' id="" cols="" rows="" onChange={(e)=>{setBodym(e.target.value)}}></textarea>
                 </div>
             </div>
             <div className='flex justify-center pb-6 border-b-2 '>

diff --git a/client/src/components/card.jsx b/client/src/components/card.jsx
@@ -6,14 +6,14 @@ if(status === 'Completed') {statuscolor = 'bg-green-600'}
 if(status === 'Yet to start') {statuscolor = 'bg-gray-500'}
   return (
     <div>     
-      <div className='flex flex-col relative h-[450px]  max-w-xs rounded-xl overflow-hidden bg-white shadow-lg shadow-black p-2 hover:-translate-y-2 duration-300 hover:scale-105 transition duration-700 ease-in-out'>
+      <div className='flex flex-col relative h-[450px]  max-w-xs rounded-md overflow-hidden bg-white hover:bg-blue-200 shadow-lg shadow-gray-300 p-2 hover:-translate-y-2 duration-300 hover:scale-105 transition ease-in-out'>
         <div>
-            <img className='rounded-xl' src="https://images.unsplash.com/photo-1572177812156-58036aae439c?ixlib=rb-4.0.3&ixid=M3wxMjA3fDB8MHxwaG90by1wYWdlfHx8fGVufDB8fHx8fA%3D%3D&auto=format&fit=crop&w=870&q=80" alt="" />
+            <img className='rounded-md' src="https://images.unsplash.com/photo-1572177812156-58036aae439c?ixlib=rb-4.0.3&ixid=M3wxMjA3fDB8MHxwaG90by1wYWdlfHx8fGVufDB8fHx8fA%3D%3D&auto=format&fit=crop&w=870&q=80" alt="" />
         </div>
         <div className='text-2xl font-bold font-Outfit flex justify-center'>
           {name}
         </div>
-        <div className='flex justify-center font-Outfit p-2 text-center'>
+        <div className='flex justify-center font-Outfit text-gray-500 p-2 text-center'>
             <p>{description}</p>
         </div>
         <div className='flex justify-center text-white font-Outfit'>
@@ -25,7 +25,7 @@ if(status === 'Yet to start') {statuscolor = 'bg-gray-500'}
               {/* <div className='bg-slate-500 rounded-md p-1 m-1'>Css</div>
               <div className='bg-slate-500 rounded-md p-1 m-1'>Js</div>  */}
         </div>
-        <div className='text-blue-600 flex justify-center font-Outfit'>
+        <div className='text-gray-600 flex justify-center font-Outfit'>
          {status} <span className={` ${statuscolor} w-5 h-5 ml-2 mt-1 relative rounded-full`}></span>
     
         </div>

diff --git a/client/src/components/about.jsx b/client/src/components/about.jsx
@@ -14,13 +14,13 @@ const about = () => {
   return (
     <div id='about'>
       
-        <div ref={about} className='flex flex-col pt-20 sm:h-screen'>
+        <div ref={about} className='flex flex-col pt-20 sm:h-full '>
             <div className='flex  flex-2 justify-center hidden'>
                     <img className='h-40' src="https://img.freepik.com/free-vector/mysterious-mafia-man-smoking-cigarette_52683-34828.jpg?w=740&t=st=1691321727~exp=1691322327~hmac=a232d3d2a58ddfdde15bf151817cf1cd6a70d2752dec0cc715a9c6952248dd30" alt="" />
             </div>
             <div className='flex  flex-1 justify-center text-center px-4 sm:px-10'>
               <div className='font-Outfit text:md sm:text-lg flex flex-col pb-10'>                  
-                <div className='flex-1 text-left bg-slate-100 w-auto h-full p-4'>
+                <div className='flex-1 text-left bg-slate-100 w-auto h-full p-4 sm:px-72'>
                   <div className='flex text-4xl justify-center'>
                     <h1>About Me</h1>
                   </div>

diff --git a/client/src/components/projects.jsx b/client/src/components/projects.jsx
@@ -6,9 +6,9 @@ const projects = () => {
   return (  
       <div className=' flex flex-col  h-full sm:h-full  justify-around py-20 bg-gray-200' id='projects'>
           <div className='flex text-4xl justify-center font-Outfit'>
-              <h1>My Projects</h1>
+              <h1>Projects</h1>
           </div>
-          <div className='flex flex-col sm:flex-wrap sm:flex-row h-full sm:h-full justify-between sm:px-9'>
+          <div className='flex flex-col sm:flex-wrap sm:flex-row h-full sm:h-full justify-between sm:px-9 pt-10'>
             {projectsData.map((project) => (
               <div className='flex justify-center m-2 p-2'>
                 <Card 

diff --git a/client/src/data/projects.jsx b/client/src/data/projects.jsx
@@ -8,8 +8,8 @@ const projects = [
     },
     {
       id:3, name : 'E-commerce website',
-      description : 'Shop a world of heartfelt creativity! My E-Commerce project connects buyers with handcrafted gifts and cards from diverse artists  who have joined as sellers.',
-      status : 'in progress',
+      description : 'This E-Commerce project connects buyers with handcrafted gifts and cards from diverse artists  who have joined as sellers.',
+      status : 'In progress',
       technologies : ['JS/', 'ReactJs/', 'NodeJs/', 'TailwindCSS/', 'Express']
     },
     {
